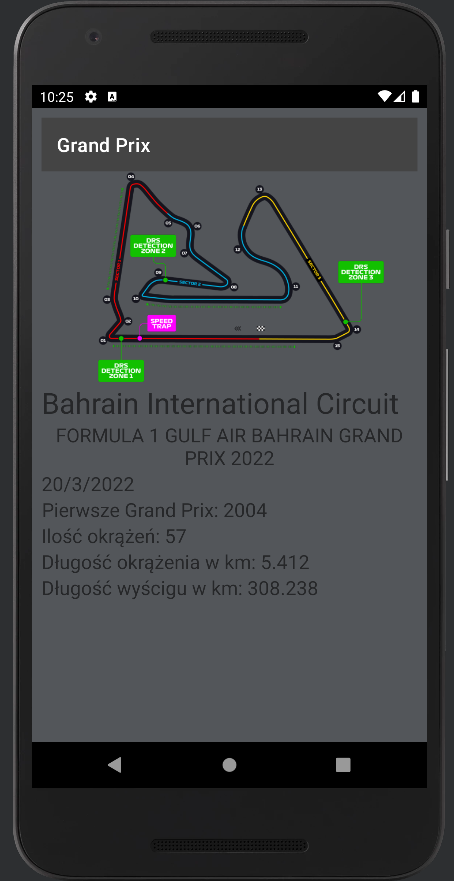
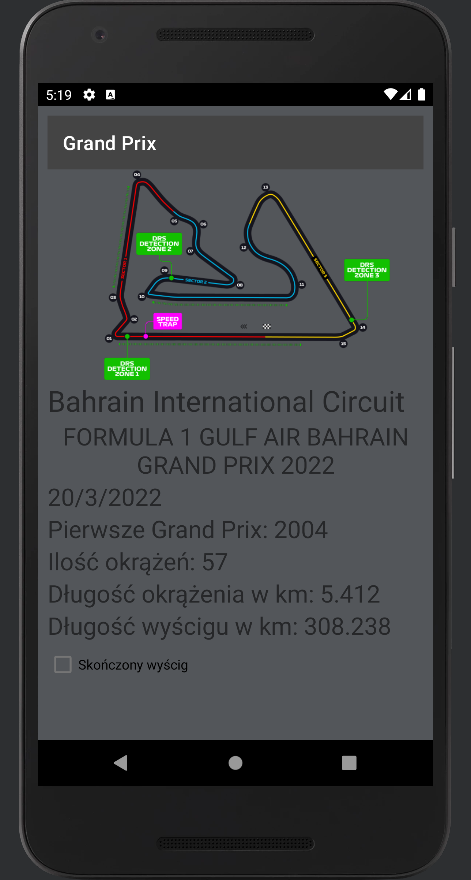
Lab7 complete

diff --git a/Lab7/app/src/main/java/com/miarowski/f1calendar/MainActivity.java b/Lab7/app/src/main/java/com/miarowski/f1calendar/MainActivity.java
@@ -4,14 +4,25 @@ import androidx.appcompat.app.AppCompatActivity;
 import androidx.appcompat.widget.Toolbar;
 
 import android.content.Intent;
+import android.database.Cursor;
+import android.database.sqlite.SQLiteDatabase;
+import android.database.sqlite.SQLiteException;
+import android.database.sqlite.SQLiteOpenHelper;
 import android.os.Bundle;
 import android.view.Menu;
 import android.view.MenuItem;
 import android.view.View;
 import android.widget.AdapterView;
+import android.widget.CursorAdapter;
 import android.widget.ListView;
+import android.widget.SimpleCursorAdapter;
+import android.widget.Toast;
 
 public class MainActivity extends AppCompatActivity {
+
+    private SQLiteDatabase db;
+    private Cursor finishedCursor;
+
 
     @Override
     protected void onCreate(Bundle savedInstanceState) {
@@ -21,23 +32,8 @@ public class MainActivity extends AppCompatActivity {
         Toolbar toolbar = (Toolbar) findViewById(R.id.toolbar);
         setSupportActionBar(toolbar);
 
-        AdapterView.OnItemClickListener itemClickListener = new AdapterView.OnItemClickListener() {
-            @Override
-            public void onItemClick(AdapterView<?> adapterView, View view, int position, long id) {
-                if (position == 0){
-                    Intent intent = new Intent(MainActivity.this, TeamsCategoryActivity.class);
-                    startActivity(intent);
-                }
-                if (position == 1){
-                    Intent intent = new Intent(MainActivity.this, GrandPrixCategoryActivity.class);
-                    startActivity(intent);
-                }
-            }
-        };
-
-        ListView listView = (ListView) findViewById(R.id.list_options);
-        listView.setOnItemClickListener(itemClickListener);
-
+        setupOptionsListView();
+        setupFinishedListView();
     }
 
     @Override
@@ -56,5 +52,70 @@ public class MainActivity extends AppCompatActivity {
             default:
                 return super.onOptionsItemSelected(item);
         }
+    }
+
+    private void setupOptionsListView(){
+        AdapterView.OnItemClickListener itemClickListener = new AdapterView.OnItemClickListener() {
+            @Override
+            public void onItemClick(AdapterView<?> adapterView, View view, int position, long id) {
+                if (position == 0){
+                    Intent intent = new Intent(MainActivity.this, TeamsCategoryActivity.class);
+                    startActivity(intent);
+                }
+                if (position == 1){
+                    Intent intent = new Intent(MainActivity.this, GrandPrixCategoryActivity.class);
+                    startActivity(intent);
+                }
+            }
+        };
+
+        ListView listView = (ListView) findViewById(R.id.list_options);
+        listView.setOnItemClickListener(itemClickListener);
+    }
+
+    private void setupFinishedListView(){
+        ListView listFinished = (ListView) findViewById(R.id.list_finished_races);
+        try {
+            SQLiteOpenHelper grandPrixDatabaseHelper = new GrandPrixDatabaseHelper(this);
+            db = grandPrixDatabaseHelper.getReadableDatabase();
+            finishedCursor = db.query("GRANDPRIX", new String[] {"_id", "TRACK_NAME"}, "FINISHED = 1",
+                                                            null, null, null, null);
+            CursorAdapter finishedAdapter = new SimpleCursorAdapter(MainActivity.this,
+                                                                    android.R.layout.simple_list_item_1,
+                                                                    finishedCursor,
+                                                                    new String[]{"TRACK_NAME"},
+                                                                    new int[]{android.R.id.text1}, 0);
+            listFinished.setAdapter(finishedAdapter);
+        } catch (SQLiteException e){
+            Toast toast = Toast.makeText(this, "Baza danych jest niedostępna", Toast.LENGTH_SHORT);
+            toast.show();
+        }
+
+        listFinished.setOnItemClickListener(new AdapterView.OnItemClickListener() {
+            @Override
+            public void onItemClick(AdapterView<?> adapterView, View view, int position, long id) {
+                Intent intent = new Intent(MainActivity.this, GrandPrixActivity.class);
+                intent.putExtra(GrandPrixActivity.EXTRA_GRAND_PRIX_ID, (int) id);
+                startActivity(intent);
+            }
+        });
+    }
+
+    @Override
+    public void onRestart() {
+        super.onRestart();
+        Cursor newCursor = db.query("GRANDPRIX", new String[]{"_id", "TRACK_NAME"}, "FINISHED = 1",
+                null, null, null, null);
+        ListView listFinished = (ListView) findViewById(R.id.list_finished_races);
+        CursorAdapter adapter = (CursorAdapter) listFinished.getAdapter();
+        adapter.changeCursor(newCursor);
+        finishedCursor = newCursor;
+    }
+
+    @Override
+    public void onDestroy() {
+        super.onDestroy();
+        finishedCursor.close();
+        db.close();
     }
 }

diff --git a/Lab7/app/src/main/java/com/miarowski/f1calendar/GrandPrixActivity.java b/Lab7/app/src/main/java/com/miarowski/f1calendar/GrandPrixActivity.java
@@ -4,14 +4,20 @@ import androidx.appcompat.app.AppCompatActivity;
 import androidx.appcompat.widget.Toolbar;
 
 import android.annotation.SuppressLint;
+import android.content.ContentValues;
 import android.database.Cursor;
 import android.database.sqlite.SQLiteDatabase;
 import android.database.sqlite.SQLiteException;
 import android.database.sqlite.SQLiteOpenHelper;
+import android.os.AsyncTask;
 import android.os.Bundle;
+import android.util.TimingLogger;
+import android.view.View;
+import android.widget.CheckBox;
 import android.widget.ImageView;
 import android.widget.TextView;
 import android.widget.Toast;
+
 
 public class GrandPrixActivity extends AppCompatActivity {
 
@@ -26,13 +32,12 @@ public class GrandPrixActivity extends AppCompatActivity {
         Toolbar toolbar = (Toolbar) findViewById(R.id.toolbar);
         setSupportActionBar(toolbar);
 
-
         int grandPrixId = (Integer)getIntent().getExtras().get(EXTRA_GRAND_PRIX_ID);
         SQLiteOpenHelper grandPrixDatabaseHelper = new GrandPrixDatabaseHelper(this);
         try {
             SQLiteDatabase db = grandPrixDatabaseHelper.getReadableDatabase();
             Cursor cursor = db.query("GRANDPRIX",
-                                        new String[] {"TRACK_NAME", "GRAND_PRIX_NAME", "RACE_DATE", "FIRST_GRAND_PRIX", "NUMBER_OF_LAPS", "IMAGE_RESORCE_ID", "CIRCUIT_LENGTH_IN_KM", "RACE_DISTANCE_IN_KM"},
+                                        new String[] {"TRACK_NAME", "GRAND_PRIX_NAME", "RACE_DATE", "FIRST_GRAND_PRIX", "NUMBER_OF_LAPS", "IMAGE_RESORCE_ID", "CIRCUIT_LENGTH_IN_KM", "RACE_DISTANCE_IN_KM", "FINISHED"},
                                 "_id = ?",
                                         new String[] {Integer.toString(grandPrixId)},
                                         null, null, null);
@@ -45,6 +50,9 @@ public class GrandPrixActivity extends AppCompatActivity {
                 int imageResorceIdText = cursor.getInt(5);
                 double circuitLengthInKmText = cursor.getDouble(6);
                 double raceDistanceInKmText = cursor.getDouble(7);
+                boolean isFinished = (cursor.getInt(8) == 1);
+                CheckBox finished = (CheckBox) findViewById(R.id.finished);
+                finished.setChecked(isFinished);
 
                 ImageView circuit = (ImageView) findViewById(R.id.circuit);
                 circuit.setImageResource(imageResorceIdText);
@@ -70,11 +78,51 @@ public class GrandPrixActivity extends AppCompatActivity {
                 TextView raceDistanceInKm = (TextView) findViewById(R.id.raceDistanceInKm);
                 raceDistanceInKm.setText("Długość wyścigu w km: " + String.valueOf(raceDistanceInKmText));
             }
-            //cursor.close();
-            //db.close();
+            cursor.close();
+            db.close();
         } catch (SQLiteException e){
             Toast toast = Toast.makeText(this, "Baza danych jest niedostępna", Toast.LENGTH_SHORT);
             toast.show();
+        }
+
+    }
+
+    public void onFinishedClicker(View view){
+
+        int grandPrixId = (Integer)getIntent().getExtras().get(EXTRA_GRAND_PRIX_ID);
+        new UpdateGrandPrixTask().execute(grandPrixId);
+    }
+
+    private class UpdateGrandPrixTask extends AsyncTask <Integer, Void, Boolean>{
+        private ContentValues grandprixValues;
+
+        @Override
+        protected void onPreExecute() {
+            CheckBox finished = (CheckBox)findViewById(R.id.finished);
+            grandprixValues = new ContentValues();
+            grandprixValues.put("FINISHED", finished.isChecked());
+        }
+
+        @Override
+        protected Boolean doInBackground(Integer... grandprixes) {
+            int grandPrixId = grandprixes[0];
+            SQLiteOpenHelper grandPrixDatabaseHelper = new GrandPrixDatabaseHelper(GrandPrixActivity.this);
+            try {
+                SQLiteDatabase db = grandPrixDatabaseHelper.getWritableDatabase();
+                db.update("GRANDPRIX", grandprixValues, "_id = ?", new String[] {Integer.toString(grandPrixId)});
+                db.close();
+                return true;
+            } catch (SQLiteException e){
+                return false;
+            }
+        }
+
+        @Override
+        protected void onPostExecute(Boolean success) {
+            if(!success){
+                Toast toast = Toast.makeText(GrandPrixActivity.this, "Baza danych jest niedostępna", Toast.LENGTH_SHORT);
+                toast.show();
+            }
         }
     }
 }

diff --git a/Lab7/README.md b/Lab7/README.md
@@ -1,18 +1,15 @@
-# __Lab6 - Baza danych SQLite i kursory__
+# __Lab7 - Zadania asynchroniczne__
 
 # ___F1 Calendar___
 
 ## _Założenia aplikacji:_
-    - należy rozwinąć lub zmodyfikować apki z innych zadań, tak by dane pobierane były z bazy danych zamiast z plików;
-    - należy utworzyć bazę danych SQLite do przechowywania ww. danych;
-    - skorzystaj z klasy SQLiteOpenHelper() do tworzenia i utrzymania ww. bazy,
-    pamiętaj o metodach onCreate() i onUpgrade(), ewentualnie onDowngrade(),
-    - skorzystaj z obiektu typu Cursor() i metody query() do tworzenia zapytań,
-    - wykorzystaj co najmniej dwa różne zapytania w aplikacji,
-    - skorzystaj z wybranych metod poruszania się po kursorze: moveToFirst(), moveToLast(), moveToPrevious(), moveToNext().
+    - przeanalizuj rodzaje wątków w aplikacjach na Androida,
+    - wykorzystaj klasę AsyncTask do obsługi kodu, korzystającego z bazy danych, umieszczając go w osobnym wątku,
+    - zaimplementuj metody onPreExecute(), doInBackground(), onPostExecute() oraz onProgressUpdate(),
+    - pamiętaj o parametrach Params, Progress oraz Results klasy AsyncTask,
 
 ## _Opis:_
-Kopia aplikacji z Lab4. Sekcja Grand Prix używa bazy danych zamiast pliku .java
+Zmodyfikowana aplikacja z Lab7. Użytkownik dodatkowo po wejściu w konkretne Grand Prix ma możliwość kliknięcia checkboxa informującego, że wyścig się już odbył. W głównej aktywności znajduje się lista nazw Grand Prix, które się już odbyły. Po kliknięciu na konkretny użytkownik przechodzi bezpośrednio do szczegółów wyścigu.
 
 ## _Widok główny:_
 ![](assets/screenshots/screen1.png)
@@ -23,21 +20,20 @@ Kopia aplikacji z Lab4. Sekcja Grand Prix używa bazy danych zamiast pliku .java
 ## _Po kliknięciu Bahrain International Circuit:_
 ![](assets/screenshots/screen3.png)
 
-## _GrandPrixDatabaseHelper.java:_
+## _Po kliknięciu CheckBoxa:_
 ![](assets/screenshots/screen4.png)
 
-Jest to klasa dziedzicząca po SQLiteOpenHelper. Odpowiada ona za tworzenie bazy danych oraz modyfikacji jej. Do tworzenia tabeli oraz modyfikacji używana jest metoda updateDatabase, która tworzy nową tabelę i wstawia do niej dane lub modyfikuje już istniejące w zależności od wersji bazy jaką posiadamy.
-
-## _GrandPrixDatabaseHelper.java:_
+## _Po powrocie na główną aktywność:_
 ![](assets/screenshots/screen5.png)
 
-Za dodanie nowych elementów do tablicy odpowiedzialna jest metoda insertGrandPrix.
+Jak widać po zaznaczeniu, że wyścig się już zakończył na głównym ekranie aplikacji pojawia się jego nazwa w zakładce "Skończone wyścigi".
 
 ## _GrandPrixActivity.java:_
 ![](assets/screenshots/screen6.png)
 
-Zmodyfikowana klasa dzięki, której możemy podejrzeć szczegóły konkretnego GrandPrix. Użyty został obiekt klasy Cursor do pobierania danych z bazy. Następnie dane przechowywane w tym obiekcie pokazywane są na elementach wizualnych aktywności.
+Wykorzystanie klasy AsyncTask oraz metod onPreExecute(), doInBackground() oraz onPostExecute().
 
-## _GrandPrixCategoryActivity.java:_
+## _MainActivity.java:_
 ![](assets/screenshots/screen7.png)
-Zmodyfikowana klasa umożliwiająca wybór konkretnego GrandPrix w celu zobaczenia szczegółowych o nim informacji. Obiekt klasy Cursor pobiera z bazy nazwy torów, a następnie przy wykorzystaniu SimpleCursorAdaptera lista pobranych nazw pokazywana jest na ekranie użytkownika jako lista do wyboru.
+
+Kod odpowiedzialny za tworzenie widoku listy zakończonych Grand Prix w Main Activity oraz aktualizacja jej po restarcie.
